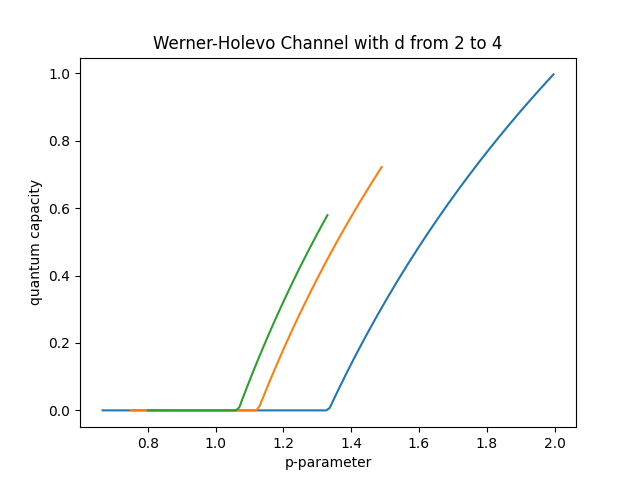
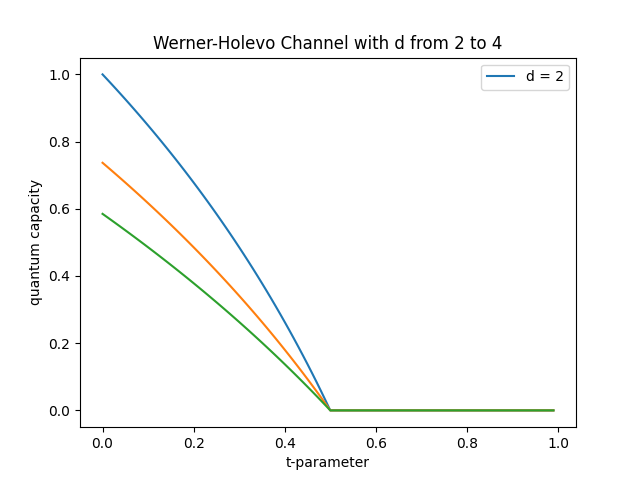
generated 2-10 WH Channel with t-parameters

diff --git a/choi_plot.py b/choi_plot.py
@@ -42,6 +42,7 @@ def choi_(pq, d, channel):
         return choi_wern(pq, d)
 
 
+# plots the capacity bound for depolarizing/ werner channel with a given d
 def plot_(dimension, channel):
     start = time.time()
     d = dimension
@@ -72,7 +73,8 @@ def plot_(dimension, channel):
         prob.solve()
         c.append(log2(prob.value))
 
-    plt.plot(q_vals, c)
+    plt.plot(q_vals, c, label="d = " + str(d))
+    plt.legend(loc="upper left")
 
     if channel[0] == "d":
         plt.title('Depolarizing Channel with d=' + str(d))
@@ -91,9 +93,7 @@ def plot_(dimension, channel):
     print(end - start)
 
 
-
-
-
+# plot a general plot of capacity bound of depolar/werner channels with a given lower/upper d
 def plot_all_(lower, upper, channel):
     start = time.time()
     for i in range(lower, upper + 1):
@@ -105,7 +105,10 @@ def plot_all_(lower, upper, channel):
         if channel[0] == "d":
             q_vals = np.arange(0, d ** 2 / (d ** 2 - 1), 0.01, dtype=float)
         if channel[0] == "w":
-            q_vals = np.arange(d / (d + 1), d / (d - 1), 0.01, dtype=float)
+            t = np.arange(0, 1, 0.01, dtype=float)
+            q_vals = d*(t / (d + 1) + (1 - t) / (d - 1))
+            #print(q_vals)
+            #q_vals = np.arange(d / (d + 1), d / (d - 1), 0.01, dtype=float)
 
         Vab = cp.Variable((D, D), symmetric=True)
         Yab = cp.Variable((D, D), symmetric=True)
@@ -125,7 +128,12 @@ def plot_all_(lower, upper, channel):
             prob.solve()
             c.append(log2(prob.value))
 
-        plt.plot(q_vals, c)
+        #plt.plot(q_vals, c)
+        if (6 >= d >= 2) or d == 10:
+            plt.plot(t, c, label="d = " + str(d))
+            plt.legend(loc="upper right")
+        else:
+            plt.plot(t, c)
 
     if channel[0] == "d":
         plt.title('Depolarizing Channel with d from ' + str(lower) + ' to ' + str(upper))
@@ -135,7 +143,8 @@ def plot_all_(lower, upper, channel):
 
     if channel[0] == "w":
         plt.title('Werner-Holevo Channel with d from ' + str(lower) + ' to ' + str(upper))
-        plt.xlabel('p-parameter')
+        #plt.xlabel('p-parameter')
+        plt.xlabel('t-parameter')
         plt.ylabel('quantum capacity')
         plt.savefig('./plot/werner/wern_' + str(lower) + '_' + str(upper) + '.png')
 
@@ -145,5 +154,5 @@ def plot_all_(lower, upper, channel):
 
 
 #plot_(5, "d")
-#plot_(10, "w")
+#plot_(2, "w")
 plot_all_(2, 10, "w")
